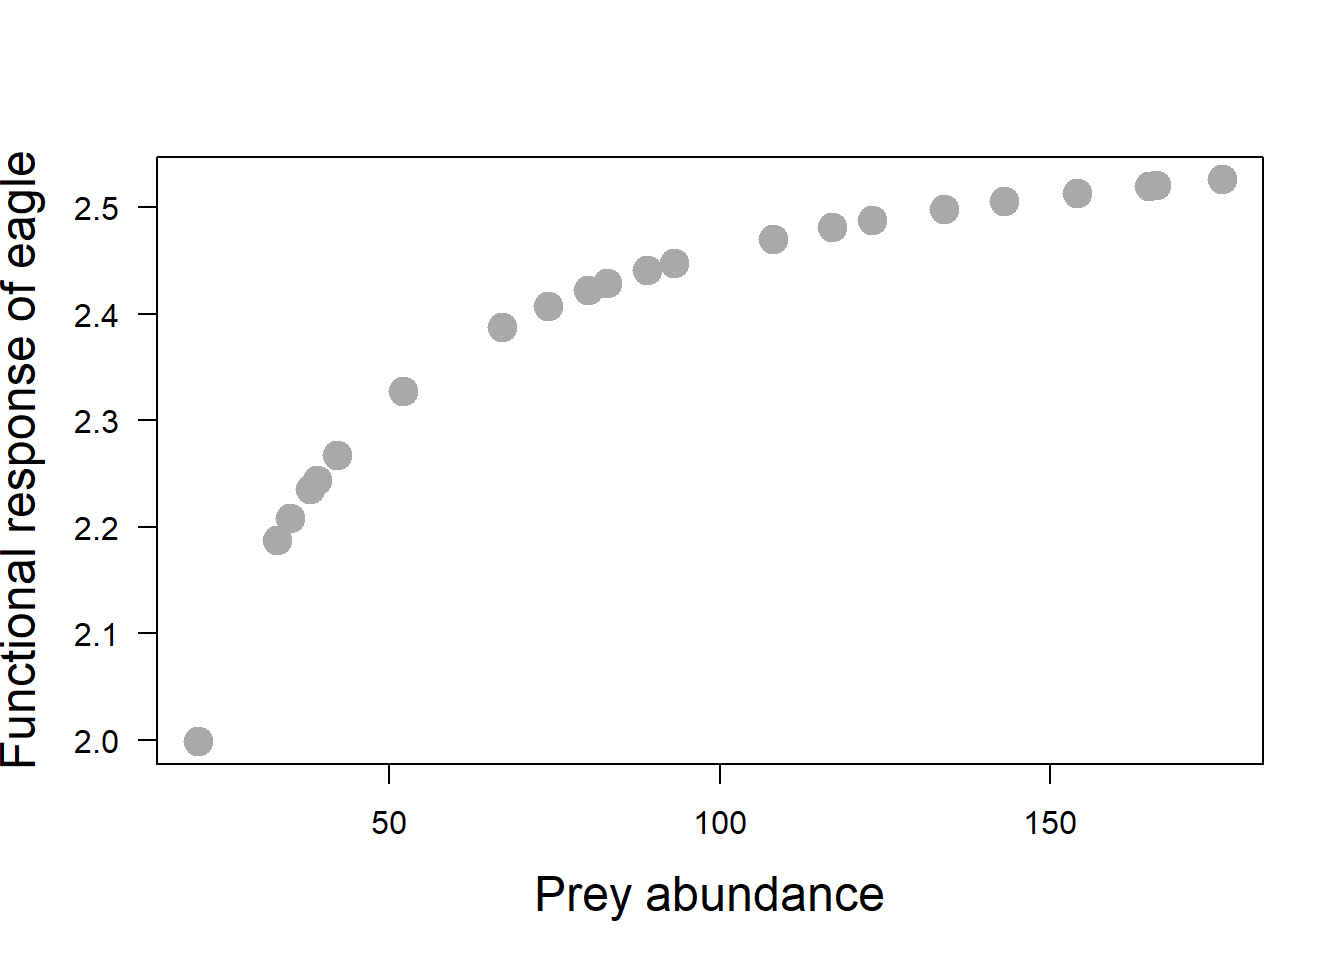
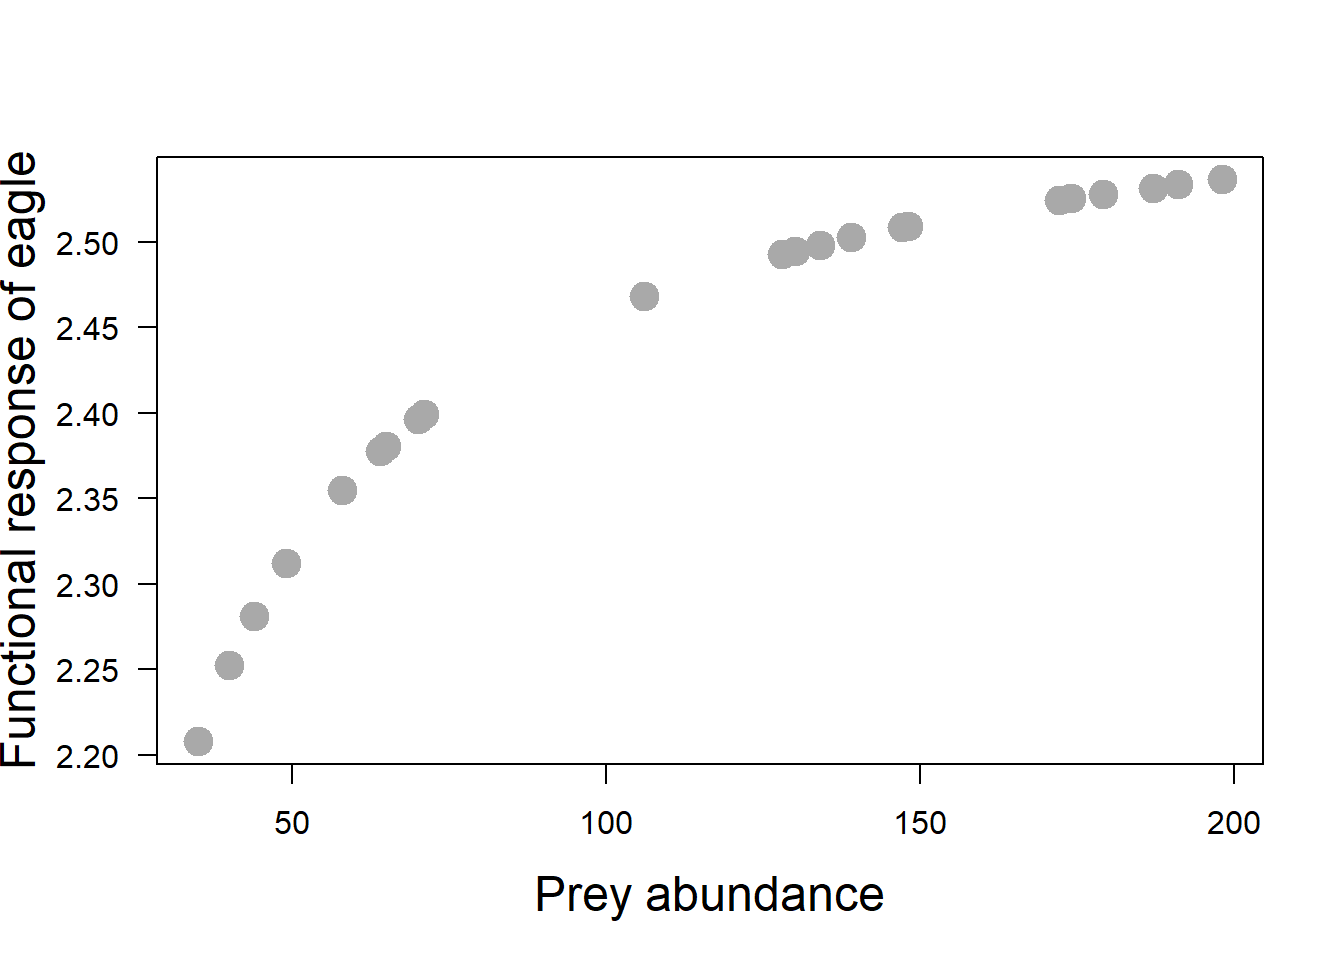
.

diff --git a/docs/index.html b/docs/index.html
@@ -845,7 +845,7 @@ F-statistic: 62.09 on 1 and 18 DF,  p-value: 3.039e-07</code></pre>
 <span id="cb34-2"><a href="#cb34-2" aria-hidden="true" tabindex="-1"></a>p <span class="ot">&lt;-</span>  <span class="fl">0.5</span>                                             <span class="co"># allele frequency</span></span>
 <span id="cb34-3"><a href="#cb34-3" aria-hidden="true" tabindex="-1"></a><span class="fu">rbinom</span>(<span class="dv">1</span>, <span class="at">size =</span> <span class="dv">2</span> <span class="sc">*</span> n[<span class="dv">1</span>], <span class="at">prob =</span> p) <span class="sc">/</span> (<span class="dv">2</span> <span class="sc">*</span> n[<span class="dv">1</span>])     <span class="co"># allele frequency in the next generation </span></span></code><button title="Copy to Clipboard" class="code-copy-button"><i class="bi"></i></button></pre></div>
 <div class="cell-output cell-output-stdout">
-<pre><code>[1] 0.4166667</code></pre>
+<pre><code>[1] 0.5166667</code></pre>
 </div>
 <div class="sourceCode cell-code" id="cb36"><pre class="sourceCode r code-with-copy"><code class="sourceCode r"><span id="cb36-1"><a href="#cb36-1" aria-hidden="true" tabindex="-1"></a>t <span class="ot">&lt;-</span> <span class="dv">1000</span>                                             <span class="co"># repeat sampling 1000 times</span></span>
 <span id="cb36-2"><a href="#cb36-2" aria-hidden="true" tabindex="-1"></a>freq <span class="ot">&lt;-</span> <span class="fu">list</span>()</span>